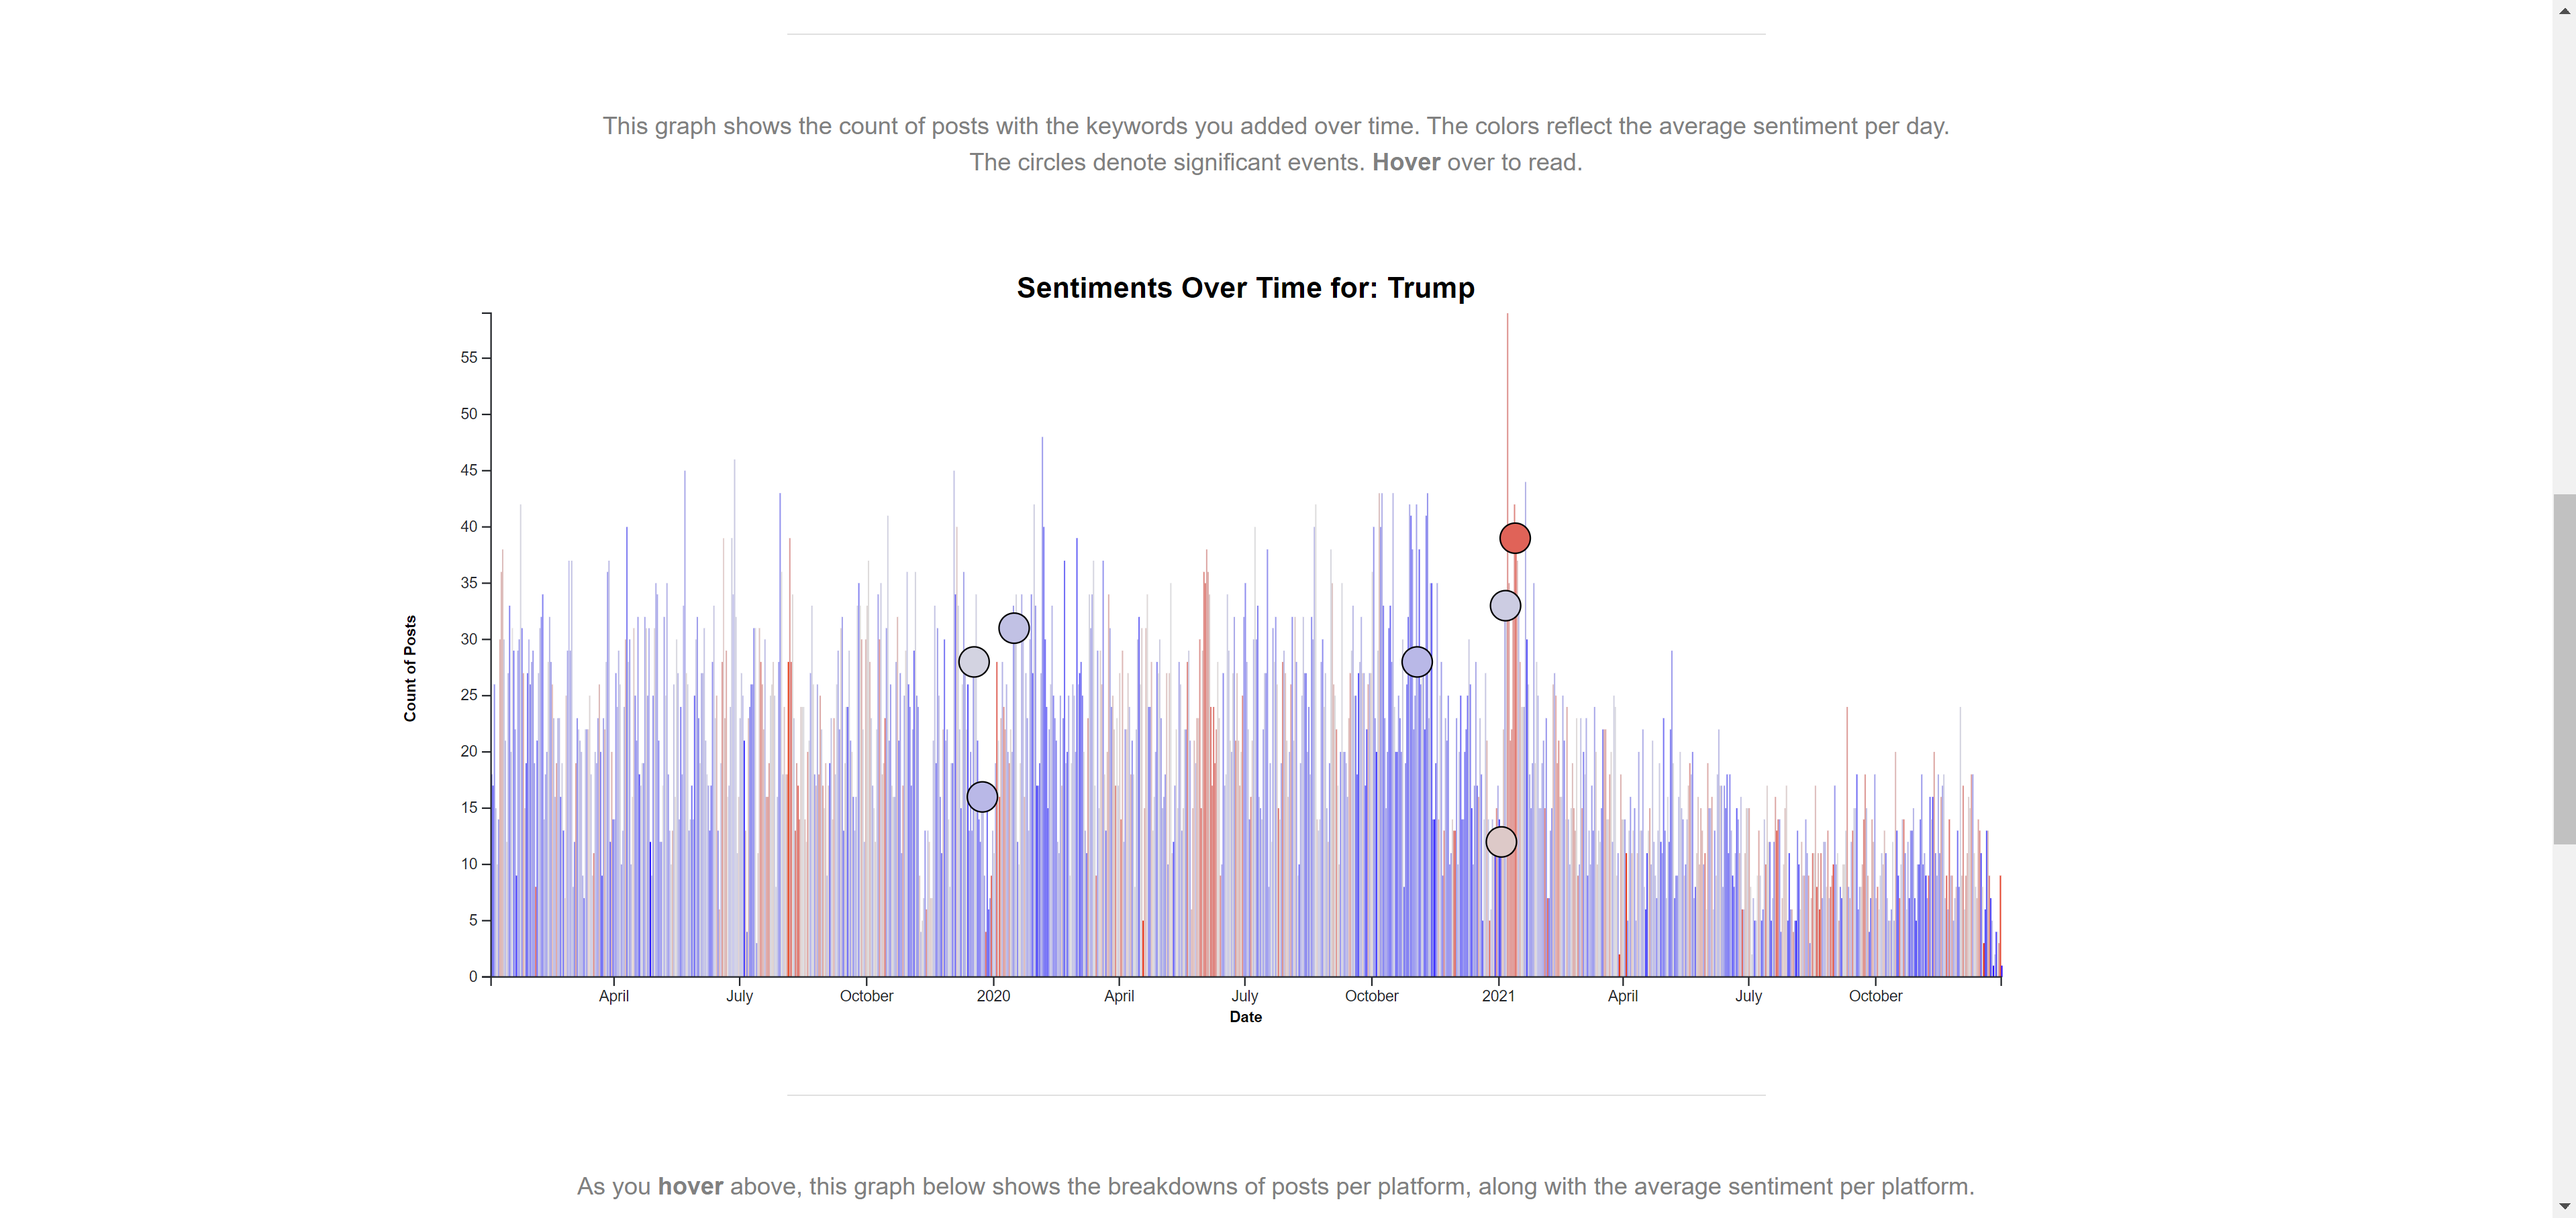
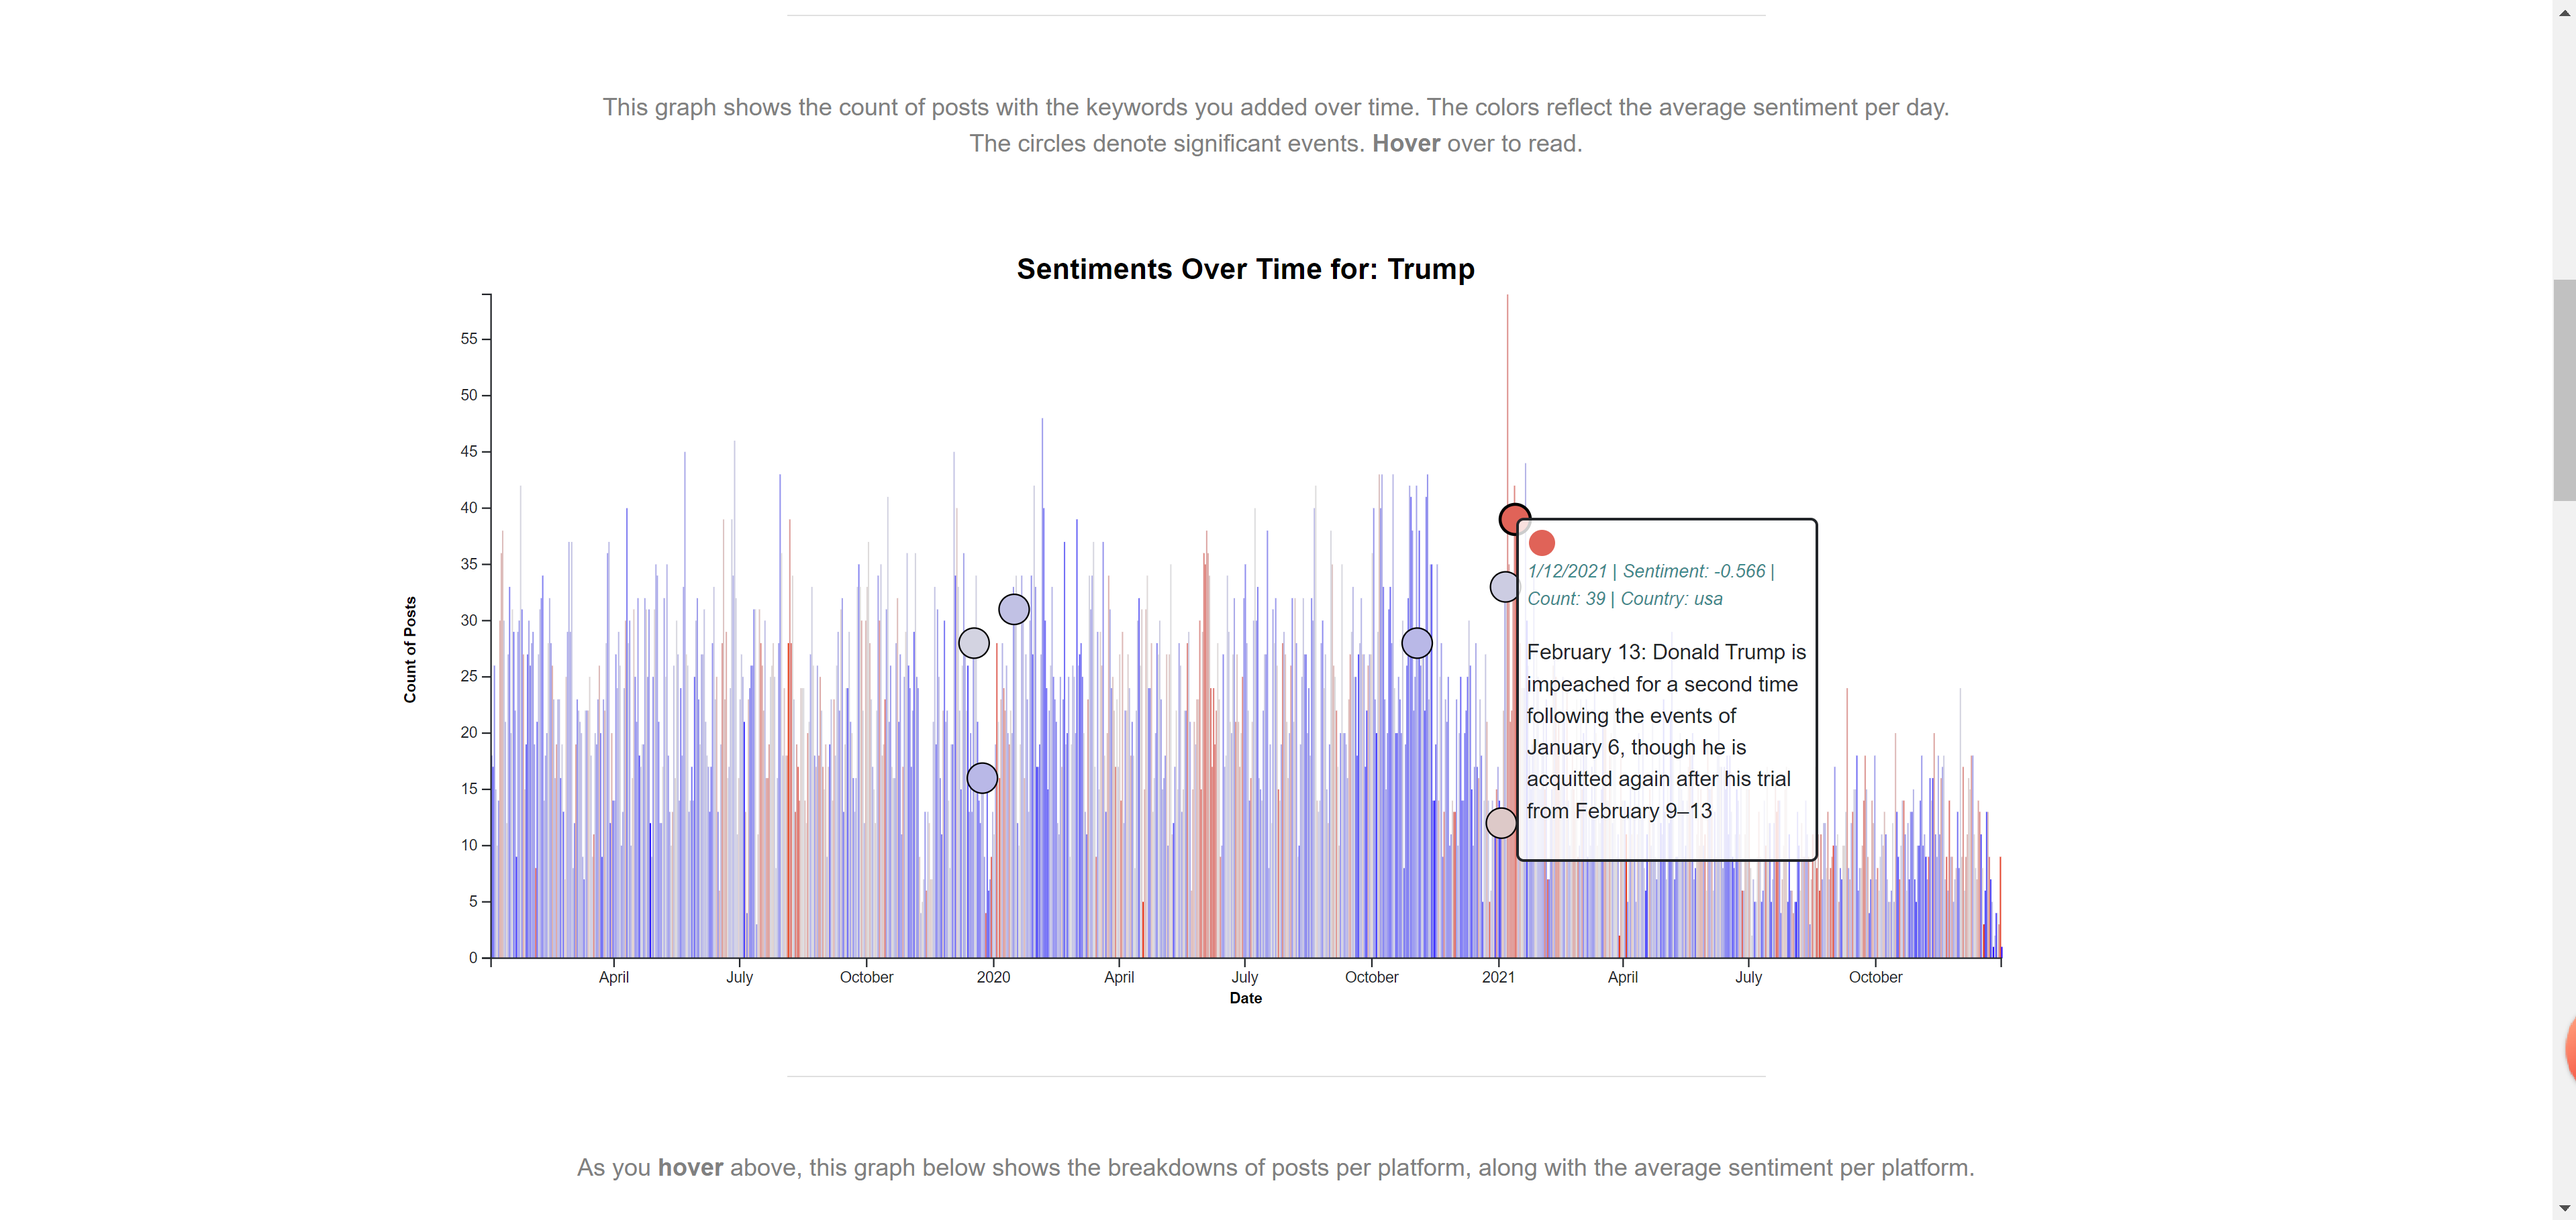
Readme updates

diff --git a/README.md b/README.md
@@ -11,7 +11,7 @@ Visualizing the sentiment of the Internet across multiple media platforms.
 1. [NodeJS v18](https://nodejs.org/en/download/)
 1. NPM v9: `npm install npm@latest -g`
 1. [Python 3.10](https://www.python.org/downloads/release/python-3108/)
-1. Download the `reduced_data` dataset from [Kaggle](https://www.kaggle.com/datasets/farisdurrani/sentimentsearch), unzipping it, and putting all the files  inside [/backend](./Project/backend) 
+1. Download the `reduced_data` dataset from [Kaggle](https://www.kaggle.com/datasets/farisdurrani/sentimentsearch), unzipping it, and putting all the files inside [/backend](./Project/backend)
 
 ## Start both the backend and frontend apps once inside [/Project](./Project):
 
@@ -45,9 +45,43 @@ The sentiments were calculated using [vaderSentiment~=3.3.2](https://pypi.org/pr
 
 Implemented in [/frontend](./Project/frontend/), the frontend is created on React.JS, and the visualizations by D3.js and Apexcharts.
 
+### Demo video:
 
 https://user-images.githubusercontent.com/40067313/205411066-8f68f98e-1cb8-4cb1-bde3-85a4c2e68fcb.mp4
 
+### Search bar
+
+![](./.github/screenshots/search_bar.png)
+The page (`localhost:3000` by default) opens with a comfortable search bar where you can type in any search terms to find out the sentiment of those keywords, along with optional options like start and end dates as well as the media platform.
+
+### Sentiment Legend
+
+![](./.github/screenshots/sentiment_legend.png)
+A simple legend shows up underneath, denoting that bars and areas colored red have negative sentiment posts, i.e., posts that are unpleasant, depressing, or harmful. Positive sentiments are blue.
+
+### Timeline
+
+![](./.github/screenshots/timeline.png)
+The main graph is the Timeline, which shows the count of posts per day over time, and the color of the bars denoting the sentiments. The user can hover over each bar to find out the sentiment and count of posts of that date.
+
+We also show several "significant events" (of our own choosing from Wikipedia) that contain those keywords in circles. These circles have the same height and color as the bar on that date. This allows the user to correlate certain significant change in sentiment with a significant event.
+
+In this example, 1/12/2021 has a great deal of fairly negative posts which correlates with President Trump's second impeachment.
+
+### Frequency Chart
+
+![](./.github/screenshots/freq.png)
+As the user hovers over the Timeline above, this frequency chart also updates to show the breakdown of posts on that date.
+
+### Bag of Words
+
+![](./.github/screenshots/bubble_chart.png)
+We also provide a bubble chart to show the most frequent words in the time period as well as the mean sentiment of the posts containing those words.
+
+### Fraction of Sentiment Polarities
+
+![](./.github/screenshots/pie.png)
+The last pie chart derives from the bubble chart above to show the percentage of words that are positve negative (sentiment < 1), neutral (0), and (sentiment > 1).
 
 ## Backend
 
